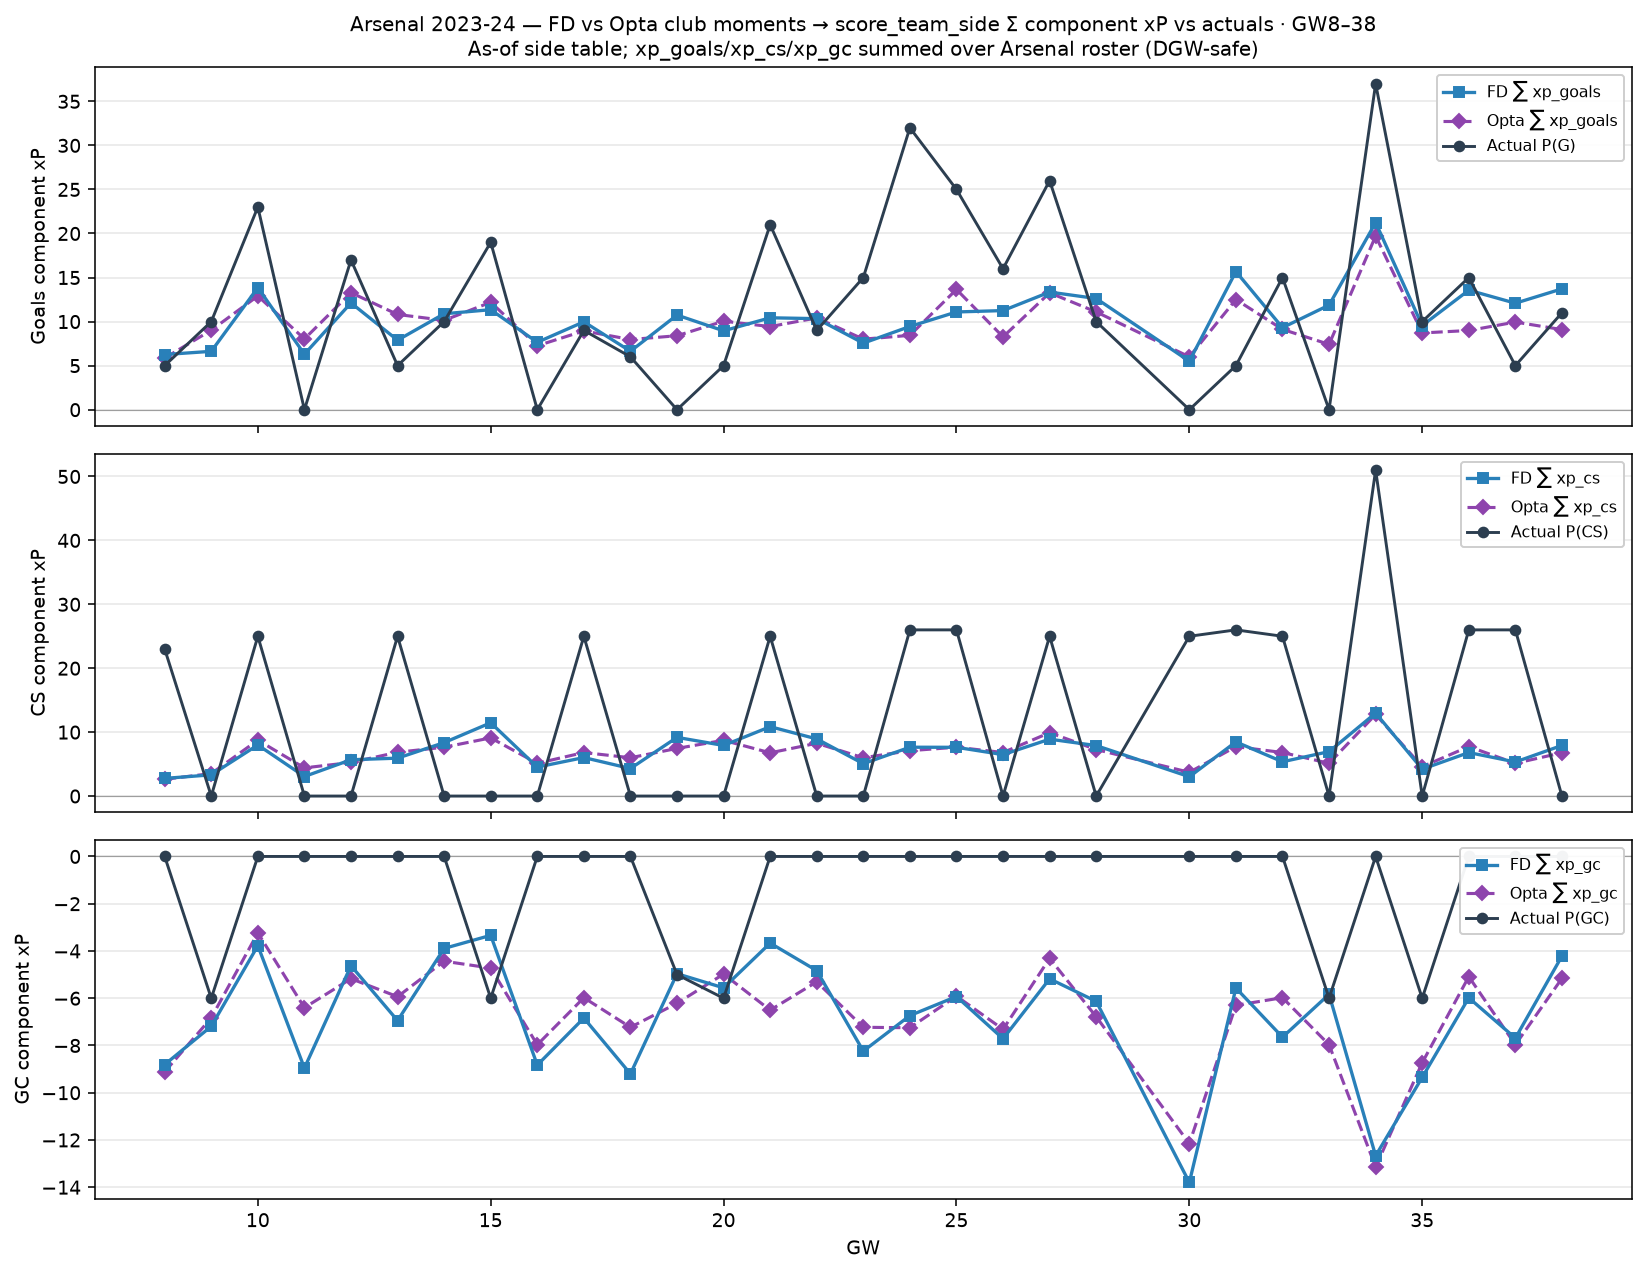
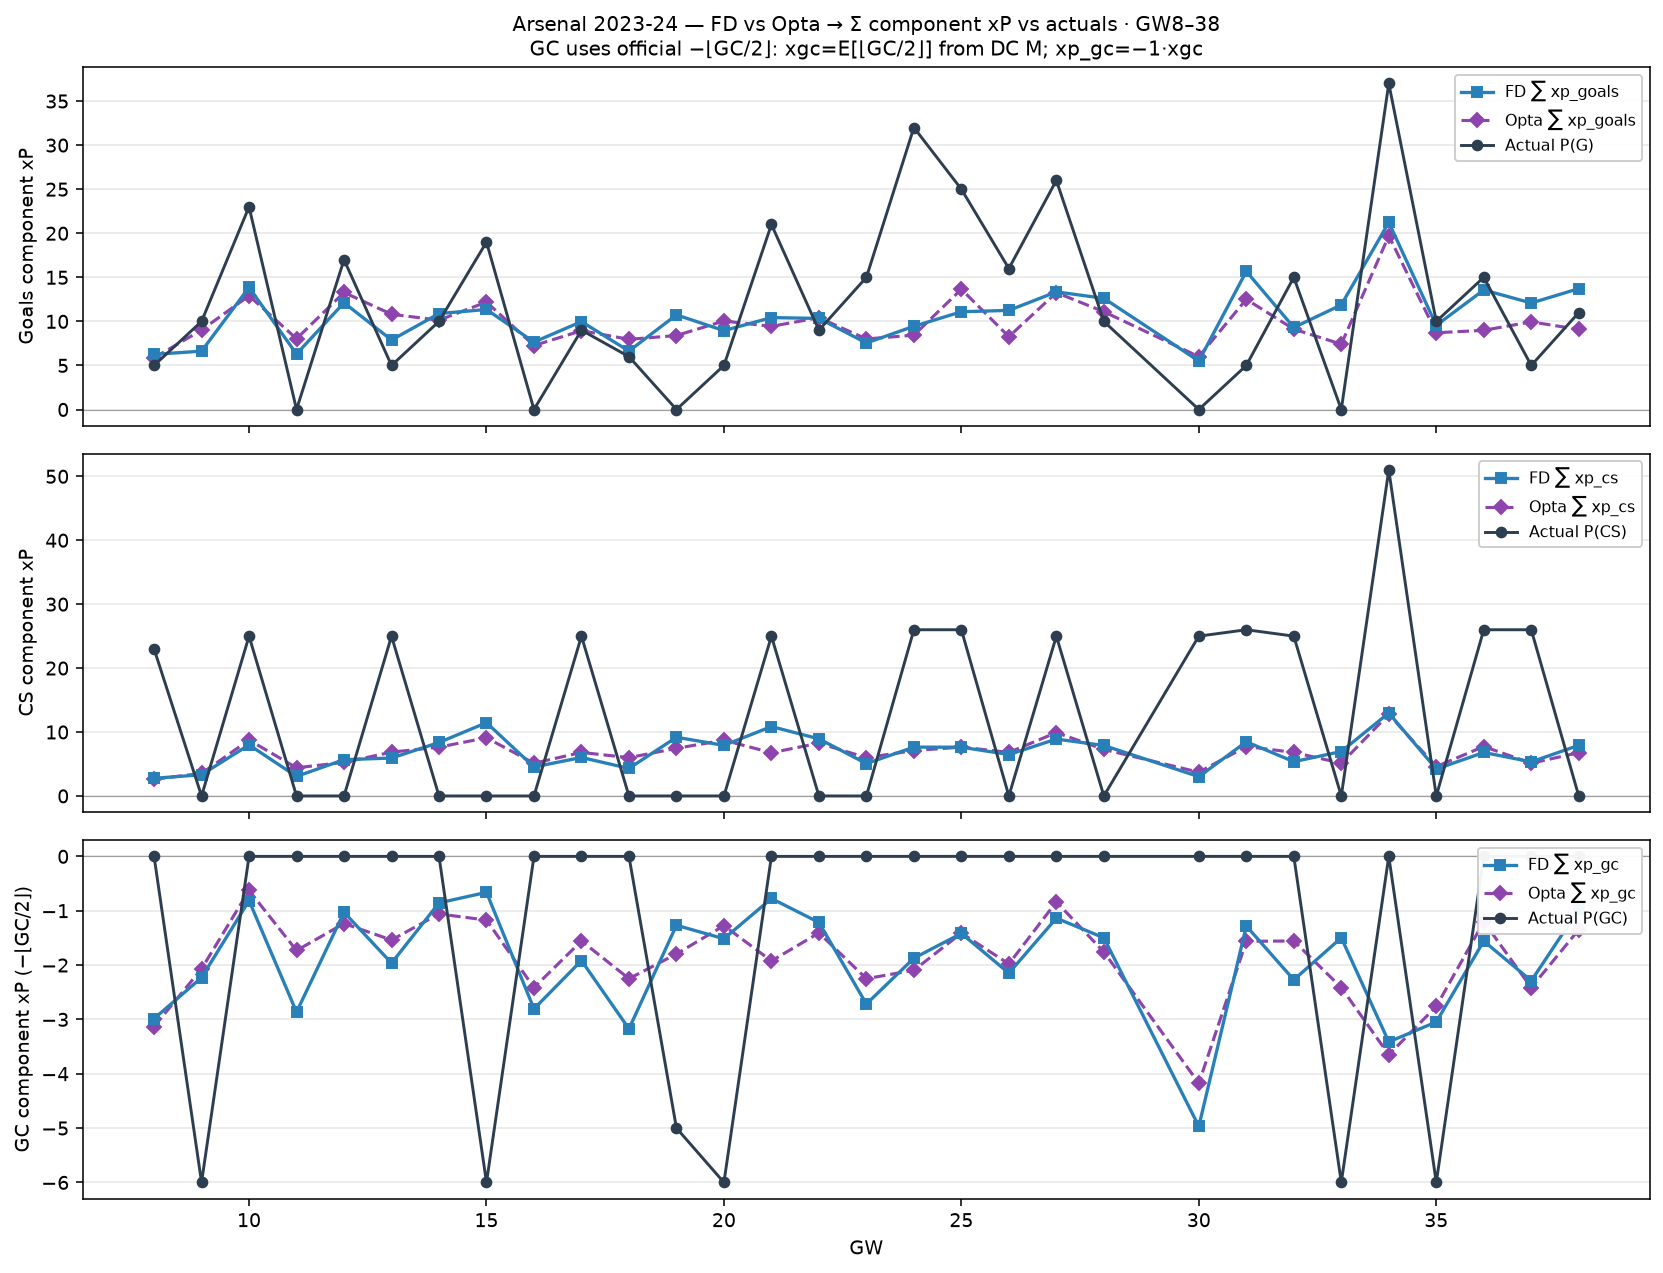
Fix Arsenal component-xP GC to official −⌊GC/2⌋
Diagnostic was feeding E[goals conceded] into score_team_side; pass
team_moments xgc = E[⌊GC/2⌋] instead. Clarify xp_gc comment.

diff --git a/src/markets/numagent_xp.py b/src/markets/numagent_xp.py
@@ -666,7 +666,9 @@ def score_team_side(
             xp_cs[i] = float(xcs) * cs_pts
             d_xp_cs[i] = float(d_xcs) * cs_pts
         if normalize_position(p) in ("GKP", "DEF"):
-            xp_gc[i] = float(GOALS_CONCEDED_DEDUCTION) * float(xgc)  # -1 * xGC
+            # ``xgc`` is E[⌊GC/2⌋] from Dixon–Coles ``team_moments`` (official
+            # −1 per two goals conceded), not E[GC].
+            xp_gc[i] = float(GOALS_CONCEDED_DEDUCTION) * float(xgc)
             d_xp_gc[i] = abs(float(GOALS_CONCEDED_DEDUCTION)) * float(d_xgc)
 
     # DefCon

diff --git a/reports/l3_fd_opta_arsenal_component_xp_four_season.md b/reports/l3_fd_opta_arsenal_component_xp_four_season.md
@@ -1,15 +1,15 @@
 # Arsenal FD/Opta → component xP vs actuals — four closed seasons (GW8–38)
 
 Club Dixon–Coles moments → as-of `score_team_side` → Σ Arsenal `xp_goals`/`xp_cs`/`xp_gc`
-vs Σ Arsenal actual FPL P(G)/P(CS)/P(GC). α=1 Opta (identity).
+vs Σ Arsenal actual FPL P(G)/P(CS)/P(GC).
+
+**GC (official):** `xgc = E[⌊GC/2⌋]` from `team_moments`; `xp_gc = −1 · xgc`.
 
 | Season | Σ FD G | Σ Opta G | act G | MAE FD G | MAE Opta G | Σ FD CS | Σ Opta CS | act CS | MAE FD CS | MAE Opta CS | Σ FD GC | Σ Opta GC | act GC | MAE FD GC | MAE Opta GC |
 | --- | ---: | ---: | ---: | ---: | ---: | ---: | ---: | ---: | ---: | ---: | ---: | ---: | ---: | ---: | ---: |
-| 2022-23 | 281.4 | 311.7 | 351 | 5.96 | 6.16 | 249.5 | 301.6 | 298 | 12.17 | 12.39 | -241.2 | -191.0 | -73 | 5.84 | 4.39 |
-| 2023-24 | 317.8 | 298.9 | 361 | 6.58 | 6.46 | 205.0 | 202.4 | 379 | 12.82 | 12.69 | -204.1 | -201.3 | -35 | 5.86 | 5.70 |
-| 2024-25 | 278.0 | 321.6 | 264 | 5.53 | 6.49 | 276.6 | 281.5 | 223 | 9.25 | 9.71 | -220.9 | -214.1 | -38 | 6.16 | 5.96 |
-| 2025-26 | 291.6 | 361.2 | 254 | 4.86 | 6.34 | 262.7 | 248.6 | 349 | 11.28 | 11.38 | -210.9 | -222.3 | -41 | 5.78 | 6.04 |
+| 2022-23 | 281.4 | 311.7 | 351 | 5.96 | 6.16 | 249.5 | 301.6 | 298 | 12.17 | 12.39 | -71.9 | -50.0 | -73 | 2.77 | 2.61 |
+| 2023-24 | 317.8 | 298.9 | 361 | 6.58 | 6.46 | 205.0 | 202.4 | 379 | 12.82 | 12.69 | -58.2 | -56.6 | -35 | 2.42 | 2.29 |
+| 2024-25 | 278.0 | 321.6 | 264 | 5.53 | 6.49 | 276.6 | 281.5 | 223 | 9.25 | 9.71 | -61.8 | -58.8 | -38 | 2.09 | 2.01 |
+| 2025-26 | 291.6 | 361.2 | 254 | 4.86 | 6.34 | 262.7 | 248.6 | 349 | 11.28 | 11.38 | -56.3 | -60.7 | -41 | 2.09 | 2.03 |
 
 Per-season: `l3_fd_opta_arsenal_component_xp_{season}_gw8-38.png`.
-
-Note: mean-layer `xp_gc = −1·xGC`; official P(GC) is `−⌊GC/2⌋` for GKP/DEF — GC totals are not on the same scale.

diff --git a/reports/l3_fd_opta_arsenal_component_xp_2022-23_gw8-38.md b/reports/l3_fd_opta_arsenal_component_xp_2022-23_gw8-38.md
@@ -1,7 +1,10 @@
 # Arsenal 2022-23 — FD/Opta → component xP vs actuals (GW8–38)
 
-Club E[G]/E[CS]/E[GC] from Dixon–Coles `M` → `score_team_side` → Σ Arsenal
-`xp_goals` / `xp_cs` / `xp_gc`. Actuals = Σ Arsenal FPL P(G)/P(CS)/P(GC).
+Club Dixon–Coles moments → `score_team_side` → Σ Arsenal `xp_goals` / `xp_cs` / `xp_gc`.
+Actuals = Σ Arsenal FPL P(G)/P(CS)/P(GC).
+
+**GC (official):** `xgc = E[⌊GC/2⌋]` from `team_moments`; `xp_gc = −1 · xgc`
+(matches `goals_conceded_points` / −1 per two goals).
 
 ![plot](l3_fd_opta_arsenal_component_xp_2022-23_gw8-38.png)
 
@@ -9,6 +12,4 @@ Club E[G]/E[CS]/E[GC] from Dixon–Coles `M` → `score_team_side` → Σ Arsena
 | --- | ---: | ---: | ---: | ---: | ---: |
 | G | 281.4 | 311.7 | 351 | 5.96 | 6.16 |
 | CS | 249.5 | 301.6 | 298 | 12.17 | 12.39 |
-| GC | -241.2 | -191.0 | -73 | 5.84 | 4.39 |
-
-Note: mean-layer `xp_gc = −1 · xGC` (linear); official P(GC) is `−⌊GC/2⌋` for GKP/DEF.
+| GC | -71.9 | -50.0 | -73 | 2.77 | 2.61 |

diff --git a/reports/l3_fd_opta_arsenal_component_xp_2023-24_gw8-38.md b/reports/l3_fd_opta_arsenal_component_xp_2023-24_gw8-38.md
@@ -1,7 +1,10 @@
 # Arsenal 2023-24 — FD/Opta → component xP vs actuals (GW8–38)
 
-Club E[G]/E[CS]/E[GC] from Dixon–Coles `M` → `score_team_side` → Σ Arsenal
-`xp_goals` / `xp_cs` / `xp_gc`. Actuals = Σ Arsenal FPL P(G)/P(CS)/P(GC).
+Club Dixon–Coles moments → `score_team_side` → Σ Arsenal `xp_goals` / `xp_cs` / `xp_gc`.
+Actuals = Σ Arsenal FPL P(G)/P(CS)/P(GC).
+
+**GC (official):** `xgc = E[⌊GC/2⌋]` from `team_moments`; `xp_gc = −1 · xgc`
+(matches `goals_conceded_points` / −1 per two goals).
 
 ![plot](l3_fd_opta_arsenal_component_xp_2023-24_gw8-38.png)
 
@@ -9,6 +12,4 @@ Club E[G]/E[CS]/E[GC] from Dixon–Coles `M` → `score_team_side` → Σ Arsena
 | --- | ---: | ---: | ---: | ---: | ---: |
 | G | 317.8 | 298.9 | 361 | 6.58 | 6.46 |
 | CS | 205.0 | 202.4 | 379 | 12.82 | 12.69 |
-| GC | -204.1 | -201.3 | -35 | 5.86 | 5.70 |
-
-Note: mean-layer `xp_gc = −1 · xGC` (linear); official P(GC) is `−⌊GC/2⌋` for GKP/DEF.
+| GC | -58.2 | -56.6 | -35 | 2.42 | 2.29 |

diff --git a/reports/l3_fd_opta_arsenal_component_xp_2025-26_gw8-38.md b/reports/l3_fd_opta_arsenal_component_xp_2025-26_gw8-38.md
@@ -1,7 +1,10 @@
 # Arsenal 2025-26 — FD/Opta → component xP vs actuals (GW8–38)
 
-Club E[G]/E[CS]/E[GC] from Dixon–Coles `M` → `score_team_side` → Σ Arsenal
-`xp_goals` / `xp_cs` / `xp_gc`. Actuals = Σ Arsenal FPL P(G)/P(CS)/P(GC).
+Club Dixon–Coles moments → `score_team_side` → Σ Arsenal `xp_goals` / `xp_cs` / `xp_gc`.
+Actuals = Σ Arsenal FPL P(G)/P(CS)/P(GC).
+
+**GC (official):** `xgc = E[⌊GC/2⌋]` from `team_moments`; `xp_gc = −1 · xgc`
+(matches `goals_conceded_points` / −1 per two goals).
 
 ![plot](l3_fd_opta_arsenal_component_xp_2025-26_gw8-38.png)
 
@@ -9,6 +12,4 @@ Club E[G]/E[CS]/E[GC] from Dixon–Coles `M` → `score_team_side` → Σ Arsena
 | --- | ---: | ---: | ---: | ---: | ---: |
 | G | 291.6 | 361.2 | 254 | 4.86 | 6.34 |
 | CS | 262.7 | 248.6 | 349 | 11.28 | 11.38 |
-| GC | -210.9 | -222.3 | -41 | 5.78 | 6.04 |
-
-Note: mean-layer `xp_gc = −1 · xGC` (linear); official P(GC) is `−⌊GC/2⌋` for GKP/DEF.
+| GC | -56.3 | -60.7 | -41 | 2.09 | 2.03 |

diff --git a/reports/l3_fd_opta_arsenal_component_xp_2024-25_gw8-38.md b/reports/l3_fd_opta_arsenal_component_xp_2024-25_gw8-38.md
@@ -1,7 +1,10 @@
 # Arsenal 2024-25 — FD/Opta → component xP vs actuals (GW8–38)
 
-Club E[G]/E[CS]/E[GC] from Dixon–Coles `M` → `score_team_side` → Σ Arsenal
-`xp_goals` / `xp_cs` / `xp_gc`. Actuals = Σ Arsenal FPL P(G)/P(CS)/P(GC).
+Club Dixon–Coles moments → `score_team_side` → Σ Arsenal `xp_goals` / `xp_cs` / `xp_gc`.
+Actuals = Σ Arsenal FPL P(G)/P(CS)/P(GC).
+
+**GC (official):** `xgc = E[⌊GC/2⌋]` from `team_moments`; `xp_gc = −1 · xgc`
+(matches `goals_conceded_points` / −1 per two goals).
 
 ![plot](l3_fd_opta_arsenal_component_xp_2024-25_gw8-38.png)
 
@@ -9,6 +12,4 @@ Club E[G]/E[CS]/E[GC] from Dixon–Coles `M` → `score_team_side` → Σ Arsena
 | --- | ---: | ---: | ---: | ---: | ---: |
 | G | 278.0 | 321.6 | 264 | 5.53 | 6.49 |
 | CS | 276.6 | 281.5 | 223 | 9.25 | 9.71 |
-| GC | -220.9 | -214.1 | -38 | 6.16 | 5.96 |
-
-Note: mean-layer `xp_gc = −1 · xGC` (linear); official P(GC) is `−⌊GC/2⌋` for GKP/DEF.
+| GC | -61.8 | -58.8 | -38 | 2.09 | 2.01 |
